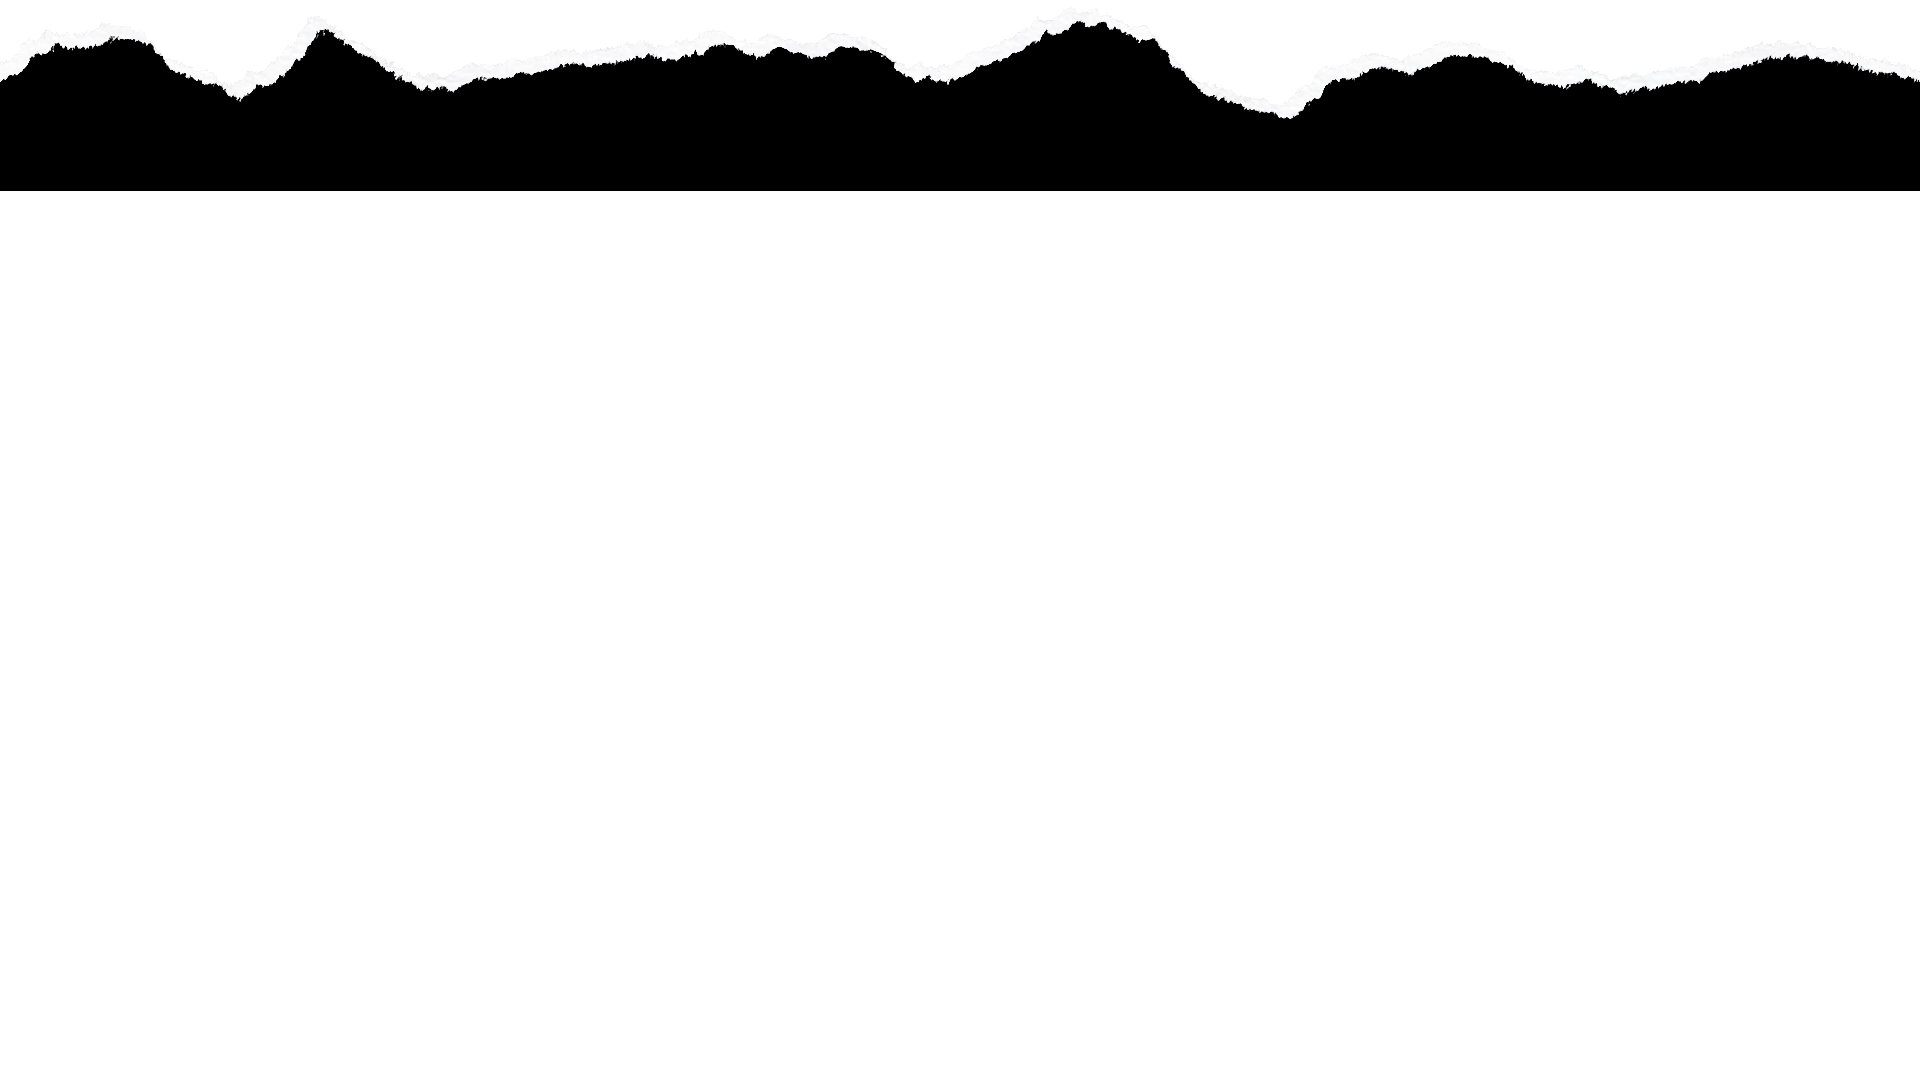
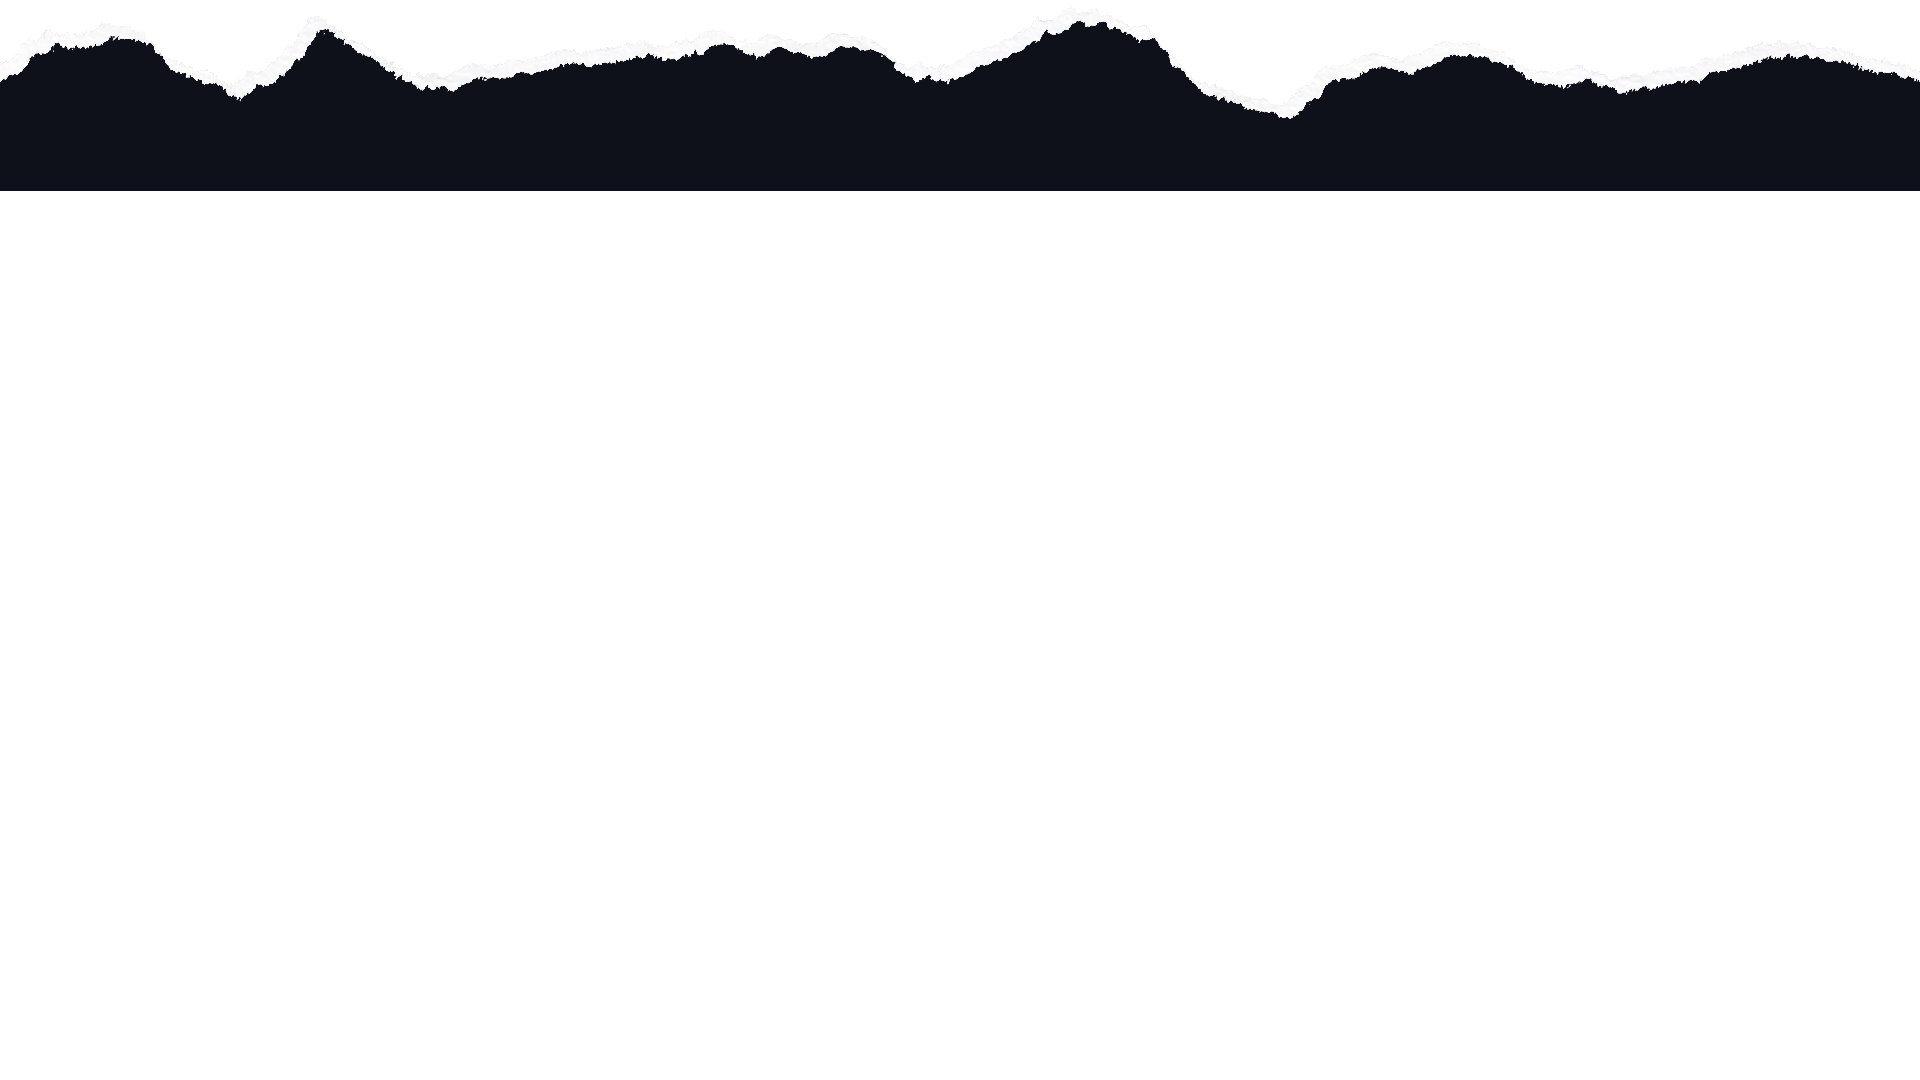
color

Changed region(s): [[0.0, 0.0, 1.0, 0.1833]]

diff --git a/src/Components/Torn.css b/src/Components/Torn.css
@@ -86,7 +86,7 @@ main {
   justify-content: center;
   align-items: center;
   flex-direction: column;
-  transform: translate3D(300px, 0, 0);
+  transform: translate3D(-175px, 10px, 0);
   pointer-events: none;
 }
 
@@ -96,9 +96,10 @@ main {
   justify-content: center;
   align-items: center;
   color: #fafaf5;
-  font-size: 120px;
+  font-size: 140px;
   font-weight: 900;
-  line-height: 103px;
+  line-height: 133px;
+  text-shadow: 1px 2px 5px rgba(0, 0, 0, 1);
 }
 
 .word:nth-child(2) {
@@ -116,8 +117,8 @@ main {
 /* -- Button -- */
 #redirect-button {
   position: absolute;
-  left: 50%;
-  bottom: 10%;
+  left: 70%;
+  bottom: 45%;
   transform: translateX(-50%);
   height: 50px;
   width: 180px;

diff --git a/src/Components/Sidebar.css b/src/Components/Sidebar.css
@@ -2,7 +2,7 @@
     margin-top: 140px;
     width: 240px;
     height: 100%;
-    background-color: #252525;
+    background-color:  #0b1020;
     position: fixed;
     left: 0;
     top: 0;
@@ -33,7 +33,7 @@
   .sidebar-nav ul li {
     font-family: 'Poppins', sans-serif;
     font-weight: lighter; /* Light font for submenu items */
-    background-color: #3c3c3c; /* Background color for submenus */
+    background-color: #141b30; /* Background color for submenus */
   }
   
   .sidebar-nav li a {
@@ -46,7 +46,7 @@
   }
   
   .sidebar-nav li a:hover {
-    color: #892cdc; /* Hover color */
+    color: #FFDB58; /* Hover color */
   }
     
   .sidebar-nav li a i {

diff --git a/src/Components/Torn.jsx b/src/Components/Torn.jsx
@@ -119,8 +119,8 @@ function Torn() {
           <span className="word">
             <span className="char">N</span>
             <span className="char">o</span>
-            <span className="char"> </span>
-            <span className="char"> </span>
+</span>
+<span className="word">
             <span className="char">T</span>
             <span className="char">e</span>
             <span className="char">n</span>

diff --git a/src/Components/AI.jsx b/src/Components/AI.jsx
@@ -1,13 +1,14 @@
 import React from 'react'
 import torntry from '../assets/torntry.png'
 import './AI.css';
+import overlay from '../assets/overlay.jpg'
 
 function AI() {
   return (
     <div>
         <img src={torntry} alt='' className='torn'></img>
         <div className="backAI">
-            
+
     </div>
     </div>
   )

diff --git a/src/Components/AI.css b/src/Components/AI.css
@@ -7,7 +7,8 @@ img.torn{
 }
 
 .backAI{
-    background-color: black;
+    background-color: #0e111a;
     height: 100vh;
     width: 100%;
+    z-index: 100;
 }

diff --git a/src/Components/header.css b/src/Components/header.css
@@ -39,7 +39,7 @@ margin-top: -10px;
 
 .navbar a:hover,
 .navbar a:active {
-  color: #BC6FF1;
+  color: #FFDB58;
 }
 
 .logo-img{
